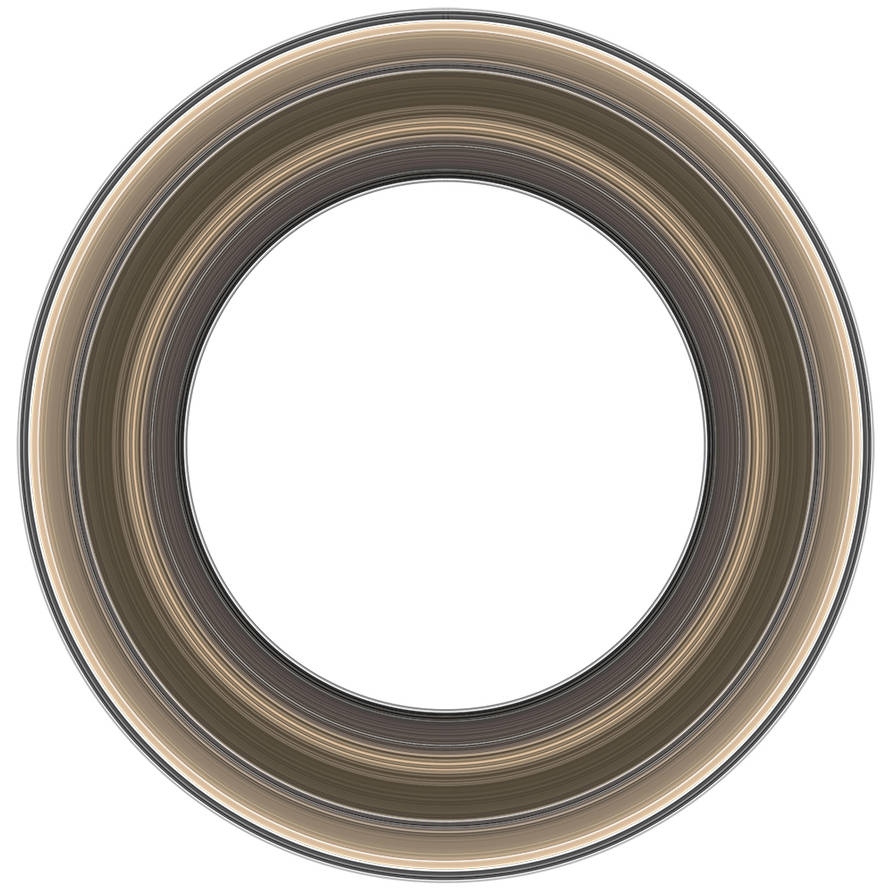
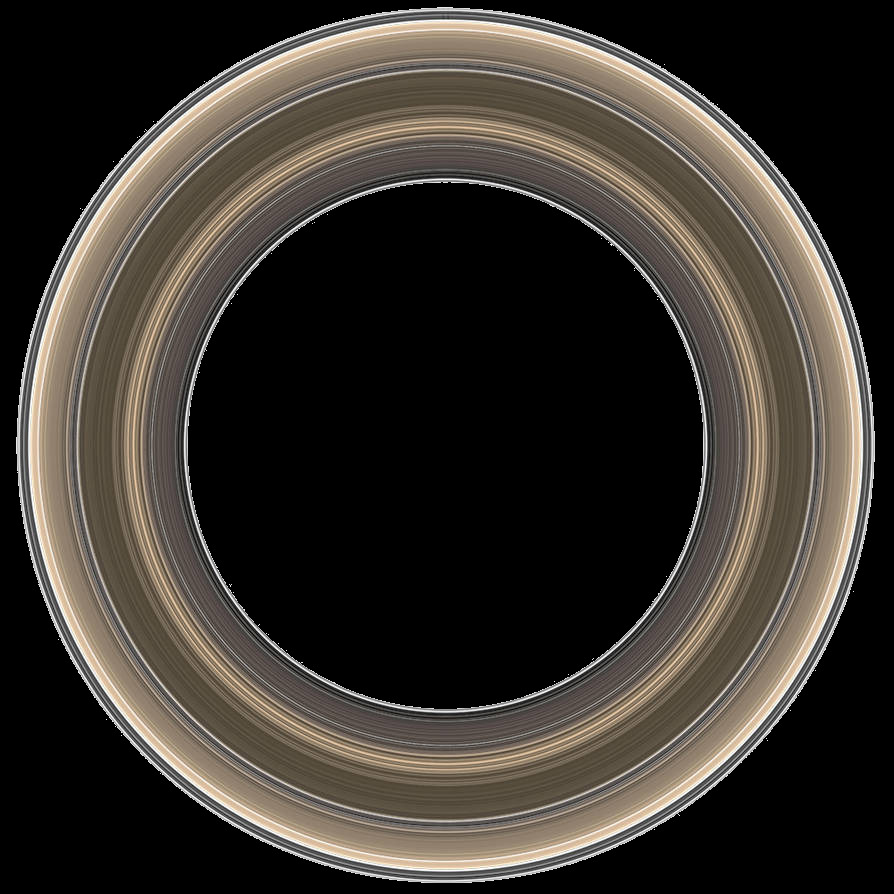
all planets created

diff --git a/main.js b/main.js
@@ -22,10 +22,14 @@ renderer.setPixelRatio(window.devicePixelRatio);
 renderer.setSize(window.innerWidth, window.innerHeight);
 // camera.position.setZ(30);
 // camera.position.z = 100; // same thing as above, just a case of preference 
-camera.position.set(0,100,100);
+camera.position.set(0,100,30);
 
 //############################################################################################
 //############################################################################################
+const pointLight = new THREE.PointLight(0xffffff,2,300);
+scene.add(pointLight);
+const gridHelper = new THREE.GridHelper(500, 50);
+scene.add(gridHelper);
 
 
 const sun = new THREE.Mesh(
@@ -58,32 +62,28 @@ function createPlanet (size, texture, position, ring){
 }
 
 
-const mercury = createPlanet(3,mercuryTexture,30);
-const saturn = createPlanet(10,saturnTexture,140, {
+const mercury = createPlanet(3,mercuryTexture,35);
+const venus = createPlanet(4,venusTexture,45);
+const earth = createPlanet(4,earthTexture,55);
+const mars = createPlanet(3.5,marsTexture,65);
+const jupiter = createPlanet(12,jupiterTexture,90);
+const saturn = createPlanet(10,saturnTexture,130, {
     innerRadius: 10,
     outerRadius: 20,
     texture: satRingTexture
 });
+const uranus = createPlanet(5,uranusTexture,165);
+const neptune = createPlanet(5,neptuneTexture,185);
 
 
 
 //############################################################################################
 //############################################################################################
-
-const pointLight = new THREE.PointLight(0xffffff,2,300);
-scene.add(pointLight);
-
 
 // const ambientLight = new THREE.AmbientLight(0Xffffff);
 // scene.add(ambientLight);
-
 // const lightHelper = new THREE.PointLightHelper(pointLight);
 // scene.add(lightHelper);
-
-const gridHelper = new THREE.GridHelper(200, 50);
-scene.add(gridHelper);
-
-const controls = new OrbitControls(camera, renderer.domElement);
 
 
 
@@ -96,23 +96,42 @@ const controls = new OrbitControls(camera, renderer.domElement);
 //     scene.add(star);
 // }
 // Array(200).fill().forEach(addStar);
-const spaceBackground = new THREE.TextureLoader().load("space.jpg");
-scene.background = spaceBackground;
+// const spaceBackground = new THREE.TextureLoader().load("space.jpg");
+// scene.background = spaceBackground;
 
 
+
+const controls = new OrbitControls(camera, renderer.domElement);
 
 
 function animate() {
     requestAnimationFrame(animate);
   
     sun.rotation.y += 0.001;
+
     mercury.obj.rotation.y += 0.005;
     mercury.planet.rotation.y += 0.01;
+
+    venus.obj.rotation.y += 0.004;
+    venus.planet.rotation.y += 0.01;
+
+    earth.obj.rotation.y += 0.007;
+    earth.planet.rotation.y += 0.01;
+
+    mars.obj.rotation.y += 0.007;
+    mars.planet.rotation.y += 0.01;
+
+    jupiter.obj.rotation.y += 0.007;
+    jupiter.planet.rotation.y += 0.01;
+
     saturn.obj.rotation.y += 0.001;
     saturn.planet.rotation.y += 0.01;
 
-    
+    uranus.obj.rotation.y += 0.007;
+    uranus.planet.rotation.y += 0.01;
 
+    neptune.obj.rotation.y += 0.007;
+    neptune.planet.rotation.y += 0.01;
 
     controls.update();
     renderer.render(scene, camera);
